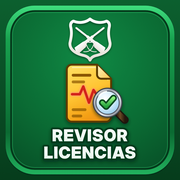
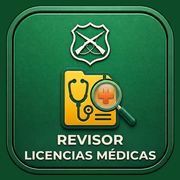
Ícono del Revisor de Licencias: diseño entregado por el usuario
Se usa el diseño entregado (estetoscopio, lupa con cruz, «REVISOR
LICENCIAS MÉDICAS»), sin el fondo blanco: el exterior del marco se
rellena con verde oscuro como en las demás apps. Versión ?v=4.

Claude-Session: https://claude.ai/code/session_01EfeSGJPmQYPmhZeSsZQwjQ

diff --git a/revisor-licencias-medicas/windows.html b/revisor-licencias-medicas/windows.html
@@ -10,8 +10,8 @@
   <meta name="apple-mobile-web-app-capable" content="yes">
   <meta name="apple-mobile-web-app-status-bar-style" content="default">
   <meta name="apple-mobile-web-app-title" content="Licencias">
-  <link rel="icon" type="image/png" href="icono-licencias-192.png?v=3">
-  <link rel="apple-touch-icon" href="icono-licencias-180.png?v=3">
+  <link rel="icon" type="image/png" href="icono-licencias-192.png?v=4">
+  <link rel="apple-touch-icon" href="icono-licencias-180.png?v=4">
   <link rel="manifest" href="manifest.webmanifest?v=7">
   <title>Revisor de Licencias Médicas · Windows</title>
   <style>

diff --git a/revisor-licencias-medicas/index.html b/revisor-licencias-medicas/index.html
@@ -11,8 +11,8 @@
   <meta name="apple-mobile-web-app-status-bar-style" content="default">
   <meta name="apple-mobile-web-app-title" content="Licencias">
   <meta name="application-name" content="Licencias">
-  <link rel="icon" type="image/png" href="icono-licencias-192.png?v=3">
-  <link rel="apple-touch-icon" href="icono-licencias-180.png?v=3">
+  <link rel="icon" type="image/png" href="icono-licencias-192.png?v=4">
+  <link rel="apple-touch-icon" href="icono-licencias-180.png?v=4">
   <link rel="manifest" href="manifest.webmanifest?v=9">
   <title>Revisor de Licencias Médicas</title>
   <style>
